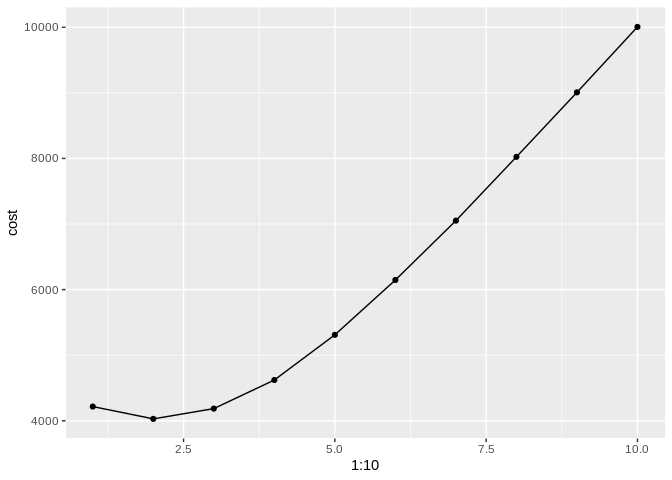
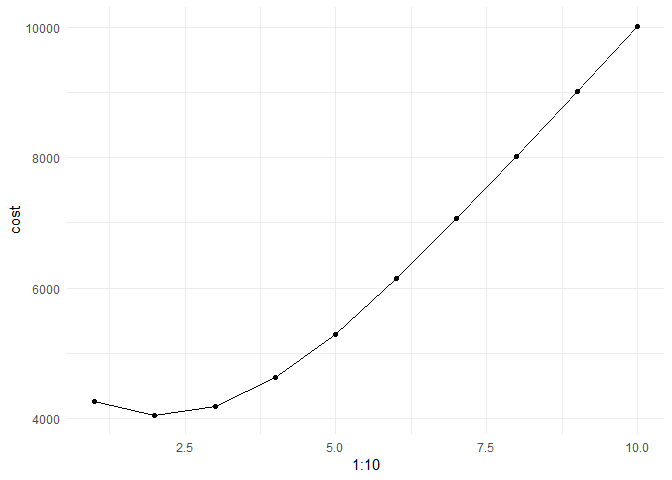
initial update of 1c in R to match changes to python lab. WIP

diff --git a/01/01c_elevator_repair.md b/01/01c_elevator_repair.md
@@ -17,31 +17,39 @@ converted to R</span>
     building and three nearby buildings  
   - model data as a Poisson-distributed variable, using a Gamma
     distribution as a prior over the Poisson intensity  
-  - use posterior predictions about your model to \_\_\_
+  - use posterior predictions about your model to determine whether the
+    four buildings should pool their resources or continue to purchase
+    elevator service individually.
 
 <!-- end list -->
 
 ``` r
+library(tidyverse)
+library(praise)
 library(rstan)
-library(ggplot2)
-
+# set a default ggplot2 theme to all other plots
+theme_set(theme_minimal())
+# use any cores we have for Stan model
 options(mc.cores = parallel::detectCores())
+# write stan models to disk so we don't have to recompile every time
 rstan_options(auto_write=TRUE)
 ```
 
 ### Load the data
 
 ``` r
-failures <- read.csv('elevator_failures.csv')
+failures <- read_csv('elevator_failures.csv')
 failures
 ```
 
-    ##   you friend1 friend2 friend3
-    ## 1   2       6       4       2
-    ## 2   2       1       2       3
-    ## 3   3       4       2       0
-    ## 4   4       4       4       2
-    ## 5   4       5       3       3
+    ## # A tibble: 5 x 4
+    ##     you friend1 friend2 friend3
+    ##   <int>   <int>   <int>   <int>
+    ## 1     2       6       4       2
+    ## 2     2       1       2       3
+    ## 3     3       4       2       0
+    ## 4     4       4       4       2
+    ## 5     4       5       3       3
 
 ### Build the model
 
@@ -77,15 +85,17 @@ distribution:
 a <- 2
 b <- 2
 prior_samples <- rgamma(n=1000,shape=a,scale=b)
-hist(prior_samples,100)
+
+# plot the prior samples
+ggplot() + geom_histogram(aes(x = prior_samples), bins = 100)
 ```
 
 ![](01c_elevator_repair_files/figure-gfm/plot-prior-1.png)<!-- -->
 
-Now build the stan model:
+Now define the stan model:
 
 ``` r
-model_code = "
+model_code <- "
 data {
     int<lower=0> N;
     int<lower=0> y[N];
@@ -100,13 +110,16 @@ model {
 "
 ```
 
+And compile it:
+
 ``` r
 model <- stan_model(model_code=model_code)
 ```
 
 ### Draw samples from the posterior
 
-Run inference on the data from your building.
+Run inference on the data from your building. First build a list of data
+required by the Stan model (`N` and `y`).
 
 ``` r
 data <- list(
@@ -115,10 +128,17 @@ data <- list(
 )
 ```
 
+Then use the `sampling()` function to run MCMC and produce samples of
+our estimate for `lam`. We will run for 10,000 iterations on 4 parallel
+chains.
+
 ``` r
 fit <- sampling(object=model, data=data, iter=10000,chains=4)
 fit
 ```
+
+We can extract the samples from this procedure using the `extract()`
+function.
 
 ``` r
 posterior_samples <- extract(fit)$lam
@@ -127,16 +147,34 @@ dim(posterior_samples)
 
     ## [1] 20000
 
+Note that there are 20,000 samples. Where does this number come from? We
+ran four separate `chains`, each with 10,000 iterations. However, we
+also specified a `warmup` of 5,000 iterations, which means these samples
+are throw away. This leaves us with with a total of 5,000 useful
+iterations per chain, which totals 20,000.
+
+Let’s plot a histogram of the the samples we have of the prior and
+posterior for ![\\lambda](https://latex.codecogs.com/png.latex?%5Clambda
+"\\lambda").
+
 ``` r
 # creating a dataframe to nicely use ggplot
-prior_post <- data.frame('sample'=c(rep('prior',length(prior_samples)),rep('posterior',length(posterior_samples))),
-                         'value'=c(prior_samples,posterior_samples))
-g <- ggplot(prior_post, aes(x=value,stat(density),fill=sample))
-g + geom_histogram(bins=100, position='identity',alpha=0.7) + 
-    theme(legend.justification=c(1,1), legend.position=c(1,1), legend.title=element_blank())
+prior_results <- tibble(sample = "prior", value = prior_samples)
+post_results <- tibble(sample = "posterior", value = posterior_samples)
+prior_post <- bind_rows(post_results, prior_results)
+# plot a histogram
+ggplot(prior_post, aes(x = value, y = stat(density), fill = sample)) +
+    geom_histogram(bins = 100, position = 'identity', alpha=0.7)
 ```
 
 ![](01c_elevator_repair_files/figure-gfm/plot-posterior-1.png)<!-- -->
+
+The plot above shows how the model starts to converge on a smaller range
+of plausible values for
+![\\lambda](https://latex.codecogs.com/png.latex?%5Clambda "\\lambda").
+Initially our prior was very wide but after fitting to the observed data
+we start to get a better
+estimate.
 
 ### Find the mean and 90% credible interval of the average number of failures per year¶
 
@@ -144,19 +182,17 @@ g + geom_histogram(bins=100, position='identity',alpha=0.7) +
 mean(posterior_samples)
 ```
 
-    ## [1] 3.096126
+    ## [1] 3.100932
+
+We can calculate the 5% and 95% quantiles with the `quantile()`
+function:
 
 ``` r
-paste("95 percent:", quantile(posterior_samples,0.95))
+quantile(posterior_samples, c(0.05, 0.95))
 ```
 
-    ## [1] "95 percent: 4.45227455272852"
-
-``` r
-paste("5 percent:", quantile(posterior_samples, 0.05))
-```
-
-    ## [1] "5 percent: 1.95953372135962"
+    ##       5%      95% 
+    ## 1.996403 4.437594
 
 ### Challenge: use your model to make an actual decision
 
@@ -272,16 +308,16 @@ min_cost
 ```
 
     ## $you
-    ## [1] 4029.275
+    ## [1] 4055.9
     ## 
     ## $friend1
-    ## [1] 5141.25
+    ## [1] 5114.175
     ## 
     ## $friend2
-    ## [1] 4031.9
+    ## [1] 4070.075
     ## 
     ## $friend3
-    ## [1] 2947.375
+    ## [1] 2968.75
 
 ``` r
 total_failures <- apply(failures, 1, sum)
@@ -308,11 +344,11 @@ shared_min_cost <- min(expected_costs_s)
 shared_min_cost
 ```
 
-    ## [1] 13203.38
+    ## [1] 13209.92
 
 ``` r
 # Expected cost for independent service contracts
 sum(unlist(min_cost))
 ```
 
-    ## [1] 16149.8
+    ## [1] 16208.9
